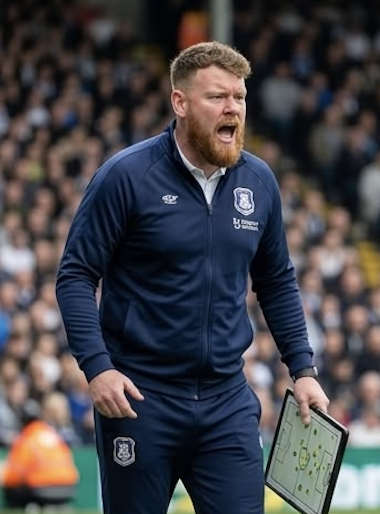
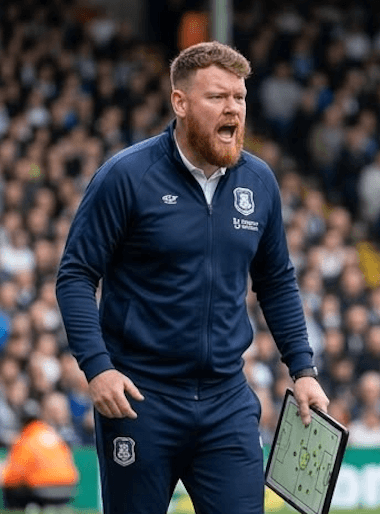
Compress sweepstake manager and crest images.
Re-encode PNGs with lossless compression and resize the mulletman crest JPG to 512px, cutting asset weight from ~11MB to ~4MB without changing on-screen dimensions.

diff --git a/app/components/WorldCupFantasy.tsx b/app/components/WorldCupFantasy.tsx
@@ -45,7 +45,7 @@ type Props = {
 const DEFAULT_API_PATH = '/api/world-cup-fantasy';
 const DEFAULT_TITLE = 'World Cup Sweepstake 2026';
 /** Bust browser / image-optimizer cache when manager portrait files are replaced. */
-const SWEEPSTAKE_MANAGER_PHOTO_VERSION = '20260622';
+const SWEEPSTAKE_MANAGER_PHOTO_VERSION = '20260623';
 
 function managerPhotoSrc(path: string): string {
   return `${path}?v=${SWEEPSTAKE_MANAGER_PHOTO_VERSION}`;
